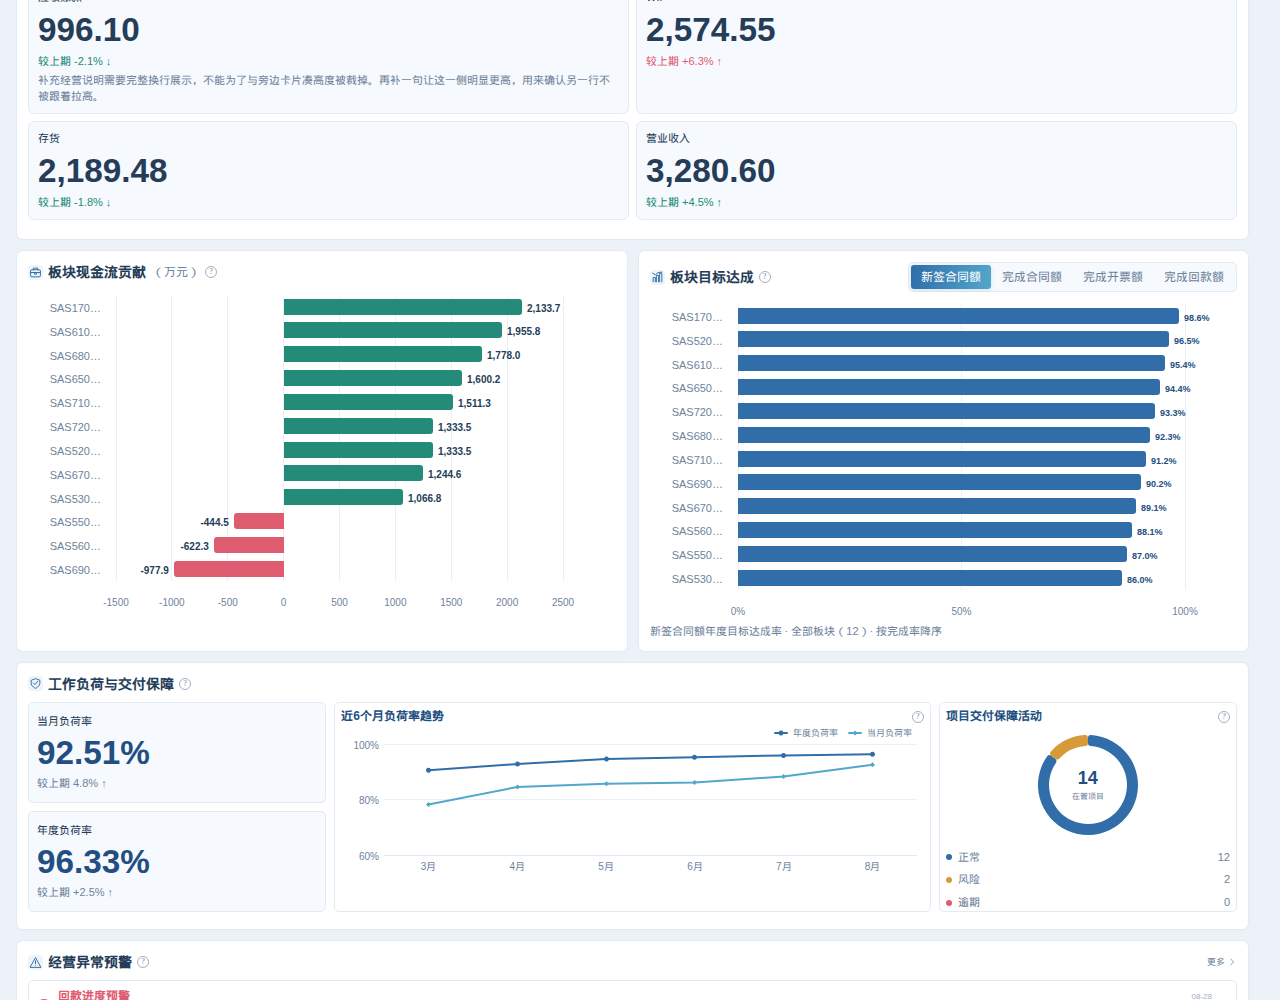
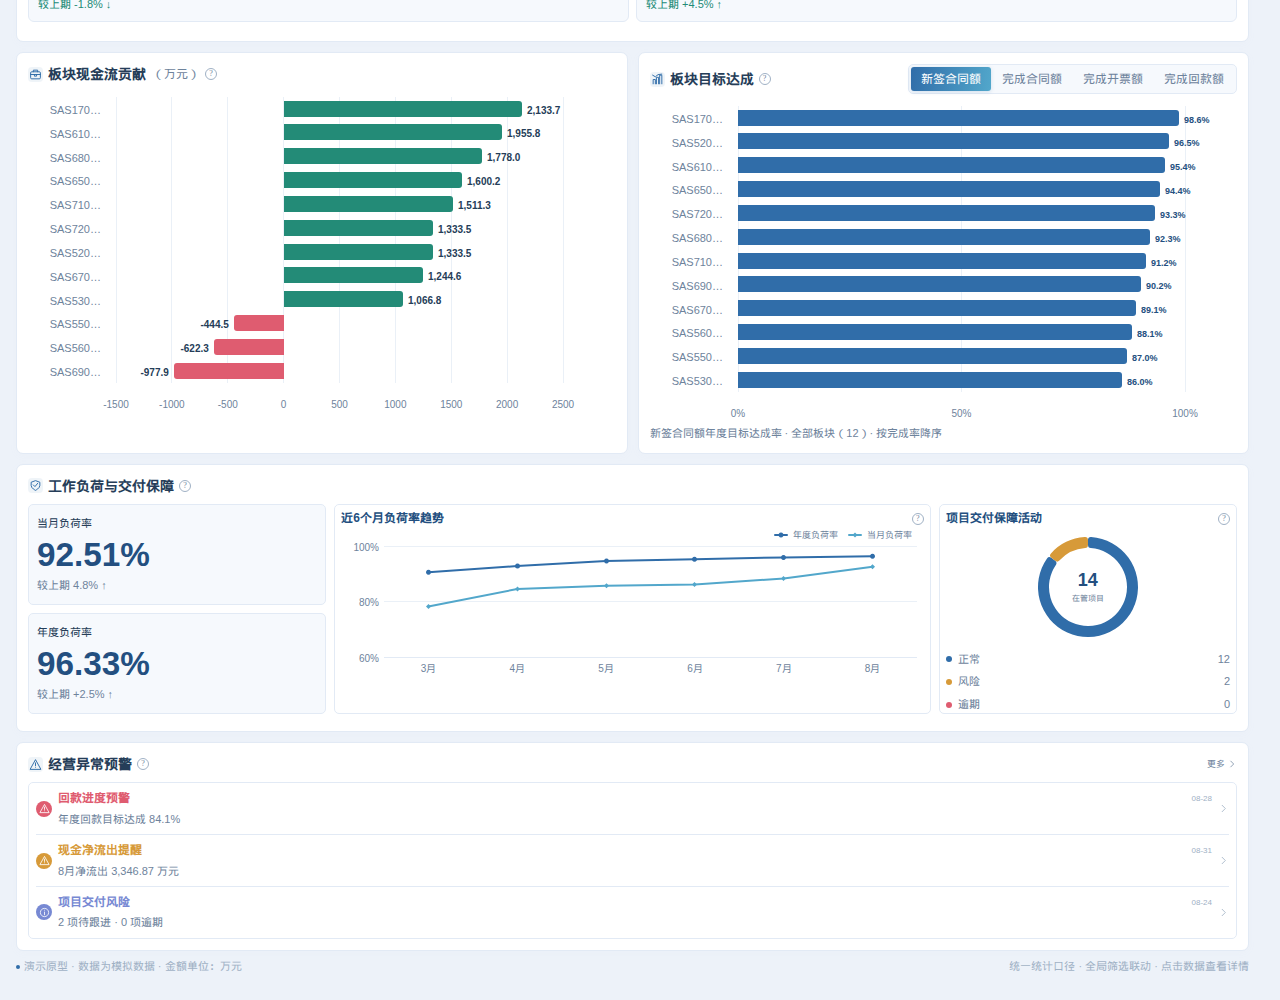
fix(运营看板202610): 窄屏成对行放不下标题和柱端数字时收成一列
经营全景 #pairRow 收列计入标题固有宽度，并在图表同步缩放后检查柱端数字。壳视口 760（内容宽 312）不再维持两列裁切。

diff --git a/public/operations-dashboard-202610/index.html b/public/operations-dashboard-202610/index.html
@@ -915,7 +915,8 @@ main{grid-row:1!important;grid-column:1!important}
     }
     row.setAttribute('data-visible', show?'true':'false');
   }
-  /* 经营全景同行：列数跟着放不下的正文收，外框仍由网格按该行最高内容拉齐 */
+  /* 经营全景同行：列数跟着放不下的正文收，外框仍由网格按该行最高内容拉齐。
+     成对行另外要求标题（含单位、说明按钮）和柱端数字都落在卡片内；放不下就收成 1 列，再按新行拉齐。 */
   function syncPeerRows(){
     const specs=[
       {root:$('kpiGrid'),prefer:2,sel:':scope > .kpi-card'},
@@ -928,6 +929,21 @@ main{grid-row:1!important;grid-column:1!important}
       range.selectNodeContents(node);
       return range.getBoundingClientRect().width;
     };
+    const titleIntrinsic=title=>{
+      const probe=title.cloneNode(true);
+      probe.setAttribute('aria-hidden','true');
+      probe.style.position='absolute';
+      probe.style.visibility='hidden';
+      probe.style.pointerEvents='none';
+      probe.style.width='max-content';
+      probe.style.minWidth='max-content';
+      probe.style.maxWidth='none';
+      probe.style.whiteSpace='nowrap';
+      (title.parentElement||document.body).appendChild(probe);
+      const w=Math.ceil(probe.getBoundingClientRect().width);
+      probe.remove();
+      return w;
+    };
     const minContentWidth=el=>{
       const cs=getComputedStyle(el);
       const pad=(parseFloat(cs.paddingLeft)||0)+(parseFloat(cs.paddingRight)||0);
@@ -938,6 +954,7 @@ main{grid-row:1!important;grid-column:1!important}
         if(n.closest('.segment')||n.closest('svg'))return;
         text=Math.max(text,textWidth(n));
       });
+      el.querySelectorAll('.panel-title').forEach(n=>{text=Math.max(text,titleIntrinsic(n));});
       const icon=el.querySelector(':scope > .mini-icon, :scope > .kpi-icon');
       const iconW=icon?icon.getBoundingClientRect().width:0;
       const gap=icon?(parseFloat(cs.columnGap||cs.gap)||8):0;
@@ -966,13 +983,51 @@ main{grid-row:1!important;grid-column:1!important}
       root.dataset.peerCols=String(cols);
     });
   }
+  function hOutside(node,host,tol){
+    if(!node||!host)return false;
+    const b=node.getBoundingClientRect();
+    const h=host.getBoundingClientRect();
+    if(b.width<0.5)return false;
+    return b.left<h.left-tol||b.right>h.right+tol;
+  }
+  /* 两列时标题或柱端数字仍被裁，就收成一列。列数变化后由网格按新行重算外框高度。 */
+  function relaxPairRow(){
+    const root=$('pairRow');
+    if(!root||root.hidden||getComputedStyle(root).display==='none')return false;
+    const cols=Number(root.dataset.peerCols||0);
+    if(cols<=1)return false;
+    const tol=1;
+    const clips=[...root.querySelectorAll(':scope > .panel')].some(panel=>{
+      if(panel.scrollWidth>panel.clientWidth+tol)return true;
+      const title=panel.querySelector('.panel-title');
+      if(title&&title.scrollWidth>title.clientWidth+tol)return true;
+      if(title&&[...title.querySelectorAll('.unit, .info-button, svg')].some(n=>hOutside(n,panel,tol)))return true;
+      return [...panel.querySelectorAll('.highcharts-data-label')].some(lab=>hOutside(lab,lab.closest('.chart')||panel,tol));
+    });
+    if(!clips)return false;
+    root.style.setProperty('grid-template-columns','minmax(0,1fr)','important');
+    root.dataset.peerCols='1';
+    return true;
+  }
+  /* reflow() 用 setTimeout 延后 setSize，紧接着量柱端数字会读到旧坐标。这里同步缩放到容器。 */
+  function reflowCharts(){
+    Object.values(charts).forEach(c=>{
+      if(!c||!c.container||!c.container.offsetWidth)return;
+      c.setSize(undefined,undefined,false);
+    });
+  }
+  function applyPeerLayout(){
+    syncPeerRows();
+    reflowCharts();
+    if(relaxPairRow())reflowCharts();
+  }
   function render(){
     hideTooltip();model=buildModel();const asofEl=$('asofDate');if(asofEl)asofEl.textContent=`${state.year}-08-31`;
     syncPairRowVisibility();renderKpis();renderCash();renderRisk();if(state.unit==='全部板块'){renderContribution();renderTargets();}renderDelivery();renderAlerts();
     
     document.querySelectorAll('[data-contribution-dim]').forEach(b=>b.classList.toggle('active',b.dataset.contributionDim===state.dimension));
     document.querySelectorAll('[data-target-metric]').forEach(b=>b.classList.toggle('active',b.dataset.targetMetric===state.target));
-    syncPeerRows();Object.values(charts).forEach(c=>c.reflow());document.body.dataset.ready='true';window.dashboard={state,model,charts,THEMES,DEMO_DATA,METRICS};
+    applyPeerLayout();document.body.dataset.ready='true';window.dashboard={state,model,charts,THEMES,DEMO_DATA,METRICS};
   }
   function toast(message){$('toast').textContent=message;$('toast').classList.add('show');clearTimeout(toast.timer);toast.timer=setTimeout(()=>$('toast').classList.remove('show'),2600);}
   function showDialog(title,content,footer='数据为交互演示样例，金额单位：万元。'){
@@ -998,7 +1053,7 @@ main{grid-row:1!important;grid-column:1!important}
     if(b.dataset.kpi)openKpi(b.dataset.kpi);
     
     else if(b.dataset.contributionDim){state.dimension=b.dataset.contributionDim;render();}
-    else if(b.dataset.targetMetric){state.target=b.dataset.targetMetric;document.querySelectorAll('[data-target-metric]').forEach(x=>x.classList.toggle('active',x.dataset.targetMetric===state.target));renderTargets();return;}
+    else if(b.dataset.targetMetric){state.target=b.dataset.targetMetric;document.querySelectorAll('[data-target-metric]').forEach(x=>x.classList.toggle('active',x.dataset.targetMetric===state.target));renderTargets();applyPeerLayout();return;}
     else if(b.dataset.cashDetail!==undefined)openCash();
     else if(b.dataset.risk!==undefined){const i=+b.dataset.risk;const amts=[model.receivables,model.wip,model.inventory,null];const labels=['应收账款','WIP','存货','营业收入'];const body=`<p class="dialog-description">${b.dataset.tip}</p>`+(i<3?`<div class="dialog-stats"><div><span>当前金额</span><strong>${money(amts[i])}</strong></div></div>`:'');showDialog(labels[i]+' · 指标说明',body);}
     else if(b.dataset.row)openDepartment(b.dataset.row);
@@ -1040,7 +1095,7 @@ main{grid-row:1!important;grid-column:1!important}
     if(d.type==='ops-dashboard-filter')applyHostFilter(d);
   });
   $('detailDialog').addEventListener('click',e=>{if(e.target===$('detailDialog')){const r=e.target.getBoundingClientRect();if(e.clientX<r.left||e.clientX>r.right||e.clientY<r.top||e.clientY>r.bottom)e.target.close();}});
-  window.addEventListener('resize',()=>{hideTooltip();clearTimeout(window.resizeTimer);window.resizeTimer=setTimeout(()=>{syncPeerRows();Object.values(charts).forEach(c=>c.reflow());},80);});
+  window.addEventListener('resize',()=>{hideTooltip();clearTimeout(window.resizeTimer);window.resizeTimer=setTimeout(()=>{applyPeerLayout();},80);});
   const themeFromQuery=new URLSearchParams(location.search).get('theme');
   setTheme(themeFromQuery&&THEMES[themeFromQuery]?themeFromQuery:'blue');
   render();

diff --git a/docs/evidence/2026-11-06-ops-board-peer-row-height/实现证据.md b/docs/evidence/2026-11-06-ops-board-peer-row-height/实现证据.md
@@ -31,6 +31,7 @@ node docs/evidence/2026-11-06-ops-board-peer-row-height/shell-probe.cjs
 
 - 宽屏：KPI 两行各 2 张等高；现金流 3 张同一行；应收两行各 2 张；成对模块 2 张外框同高，较高一侧内容贴底。
 - 520px：现金流变成 2+1，新的一行内部等高，主数字在卡片内；目标四个页签换行后仍完整；说明换行不省略。
+- 内容宽 312px（对应壳视口 760：760 − 侧栏 224 − 看板目录 224）：成对行收成 1 列后再按新行定高。标题（含「（万元）」和说明按钮）与柱端金额/百分数留在卡片内，卡片无横向溢出。收列时把标题固有宽度算进最小列宽；图表同步缩放到容器后，若两列下标题或柱端数字仍超出卡片，再收成 1 列并重算。宽屏成对行仍是 2 列等高。壳上实测：视口 760 时 iframe 宽 312、成对行宽 265、1 列；拉回壳视口 1440 后成对行恢复 2 列且外框同为 426.9。
 - 加长第一张应收卡后，同一行两张变为 134px，下一行仍为 99.3px。
 - 12 个叶子板块：成对模块 `display=none`，应收与交付之间的间距等于主栏 gap（10px）。
 
@@ -38,11 +39,12 @@ node docs/evidence/2026-11-06-ops-board-peer-row-height/shell-probe.cjs
 
 - `probe.cjs` / `probe-result.json`
 - `shell-probe.cjs` / `shell-probe.json`
-- `01-desktop-panorama.png` `02-desktop-pair.png` `03-narrow-520.png` `04-risk-content-grow.png` `05-leaf-yinchuan.png` `06-target-tab-receipt.png` `07-kpi-dialog.png`
-- `08-shell-desktop.png` `09-shell-leaf.png` `10-shell-narrow.png`
+- `01-desktop-panorama.png` `02-desktop-pair.png` `03-narrow-520.png` `04-risk-content-grow.png` `05-leaf-yinchuan.png` `06-target-tab-receipt.png` `07-kpi-dialog.png` `11-content-312-pair.png`
+- `08-shell-desktop.png` `09-shell-leaf.png` `10-shell-narrow.png` `12-shell-760-pair.png`
 
 ## 与其它未结条
 
 - 2026-11-02「运营看板202610改版（grill-with-docs）」仍是已确认，本轮未改状态。
 - 2026-11-02「视觉与口径微调」验收口径 5（溢出用滚动/裁切、不以一块撑高另一块）与本增补冲突。现行同行等高以 2026-11-06 账本条和正式规格增补为准。旧条正文未改。
 - 规格点名的「完整显示名称」、经营红绿灯、PDF、HR 同排高，在 `09e4bec` 账本里没有对应未结实现条。横轴板块名仍是改前的省略显示，本轮没有顺手展开。
+- 2026-11-06 返工：Max 在壳视口 760（内容宽 312）判成对行仍为两列并裁切标题与柱端数字。本轮只收紧 `#pairRow` 的收列，不改账本、不改正式规格，也不把本记录当作验收通过。
